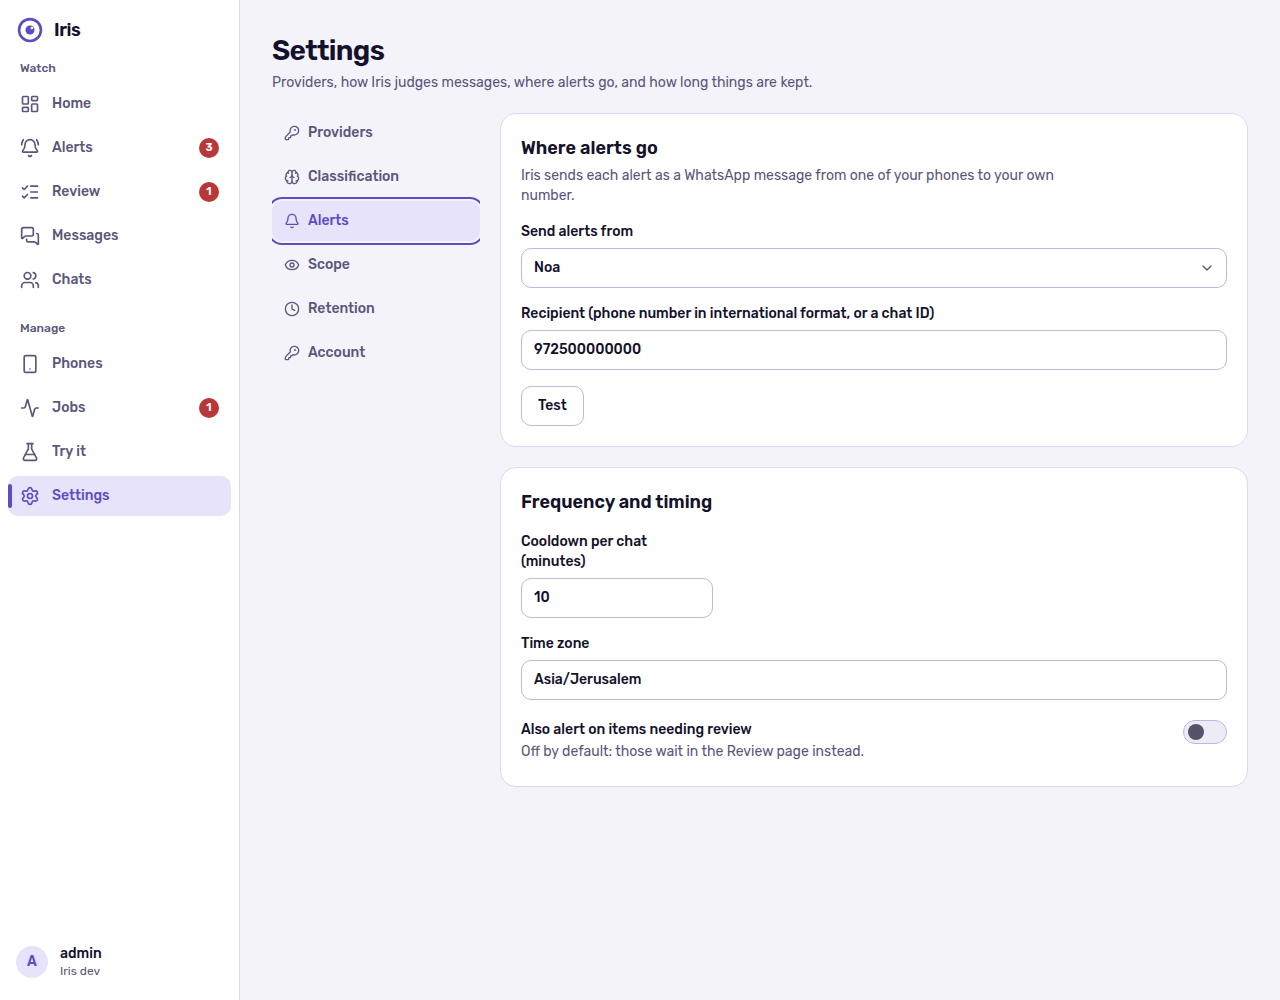
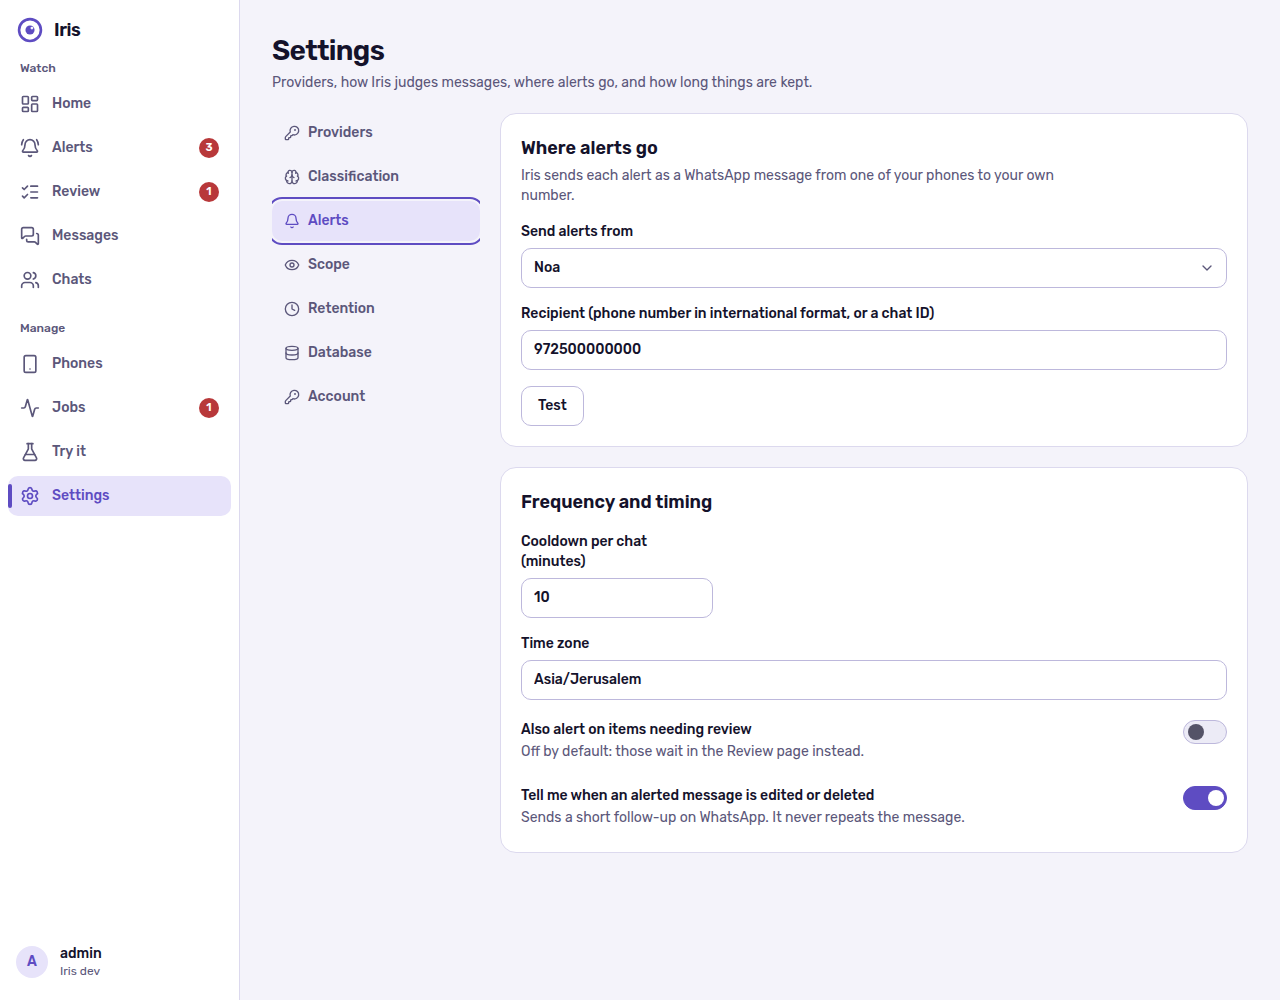
docs: describe choosing a database, with screenshots

Changed region(s): [[0.4062, 0.775, 0.75, 0.837], [0.2188, 0.341, 0.2812, 0.403], [0.9062, 0.775, 0.9688, 0.806]]

diff --git a/README.md b/README.md
@@ -49,7 +49,9 @@ container (amd64 and arm64), and uses free or low-cost models wherever possible.
   an alert you already received is edited or deleted.
 - **Try it page.** Type a message, see how Iris scores and classifies it, and adjust the thresholds with an
   instant preview before saving them.
-- **Searchable archive** (SQLite FTS5, Hebrew and English) with filters, a chat-style context view and
+- **SQLite, PostgreSQL or MySQL.** SQLite is the default and needs nothing; pick a database server under
+  **Settings > Database** and copy your data across with one button.
+- **Searchable archive** (Hebrew and English; SQLite full-text, or substring search on PostgreSQL and MySQL) with filters, a chat-style context view and
   match highlighting.
 - **A modern, responsive portal.** A sidebar on desktop, an icon rail on tablets, and a bottom tab bar on
   phones, so an alert link opens into something you can use one-handed. Light and dark themes follow your
@@ -74,14 +76,14 @@ flowchart LR
         T --> C
         C --> A["Alert service<br/>cooldown, redaction"]
         A -- "send-text" --> OW
-        UI["Portal + REST API"] --- DB[("SQLite + FTS5")]
+        UI["Portal + REST API"] --- DB[("SQLite, PostgreSQL<br/>or MySQL")]
     end
     A -. "WhatsApp message" .-> P(("Parent"))
 ```
 
 The webhook handler never calls an external API: it validates, stores, queues and answers `200`. All slow
 work (downloading media, transcribing, moderating, alerting) happens in worker tasks inside the same process.
-Iris runs as **one process on purpose**: the queue and SQLite assume it.
+Iris runs as **one process on purpose**: the queue and its locks assume it.
 
 ## Requirements
 
@@ -176,13 +178,46 @@ have. Use the switch to pause watching a phone without removing it.
 | `IRIS_PUBLIC_BASE_URL` | yes | | Externally reachable base URL, used to build webhook URLs and alert links. |
 | `IRIS_ADMIN_USERNAME` | first run | | Initial admin user. |
 | `IRIS_ADMIN_PASSWORD` | first run | | Initial admin password (stored hashed with argon2; ignored afterwards). |
-| `IRIS_DATA_DIR` | no | `/data` | SQLite database and temporary media. |
+| `IRIS_DATA_DIR` | no | `/data` | SQLite database (unless another database is chosen), the saved database choice and temporary media. |
+| `IRIS_DATABASE_URL` | no | | `postgresql://user:password@host:5432/db` or `mysql://user:password@host:3306/db` (or `sqlite:///path`). Overrides the choice made in Settings, which then becomes read only. Add `?ssl=true` for TLS. |
 | `IRIS_PORT` | no | `8080` | Listening port. |
 | `IRIS_WORKERS` | no | `3` | Concurrent job workers. |
 | `IRIS_LOG_LEVEL` | no | `INFO` | `DEBUG`, `INFO`, `WARNING`, `ERROR`. |
 | `IRIS_LOG_JSON` | no | `false` | JSON log lines. |
 | `IRIS_METRICS_TOKEN` | no | unset | If set, `/metrics` requires `Authorization: Bearer <token>`. |
 | `IRIS_FORWARDED_ALLOW_IPS` | no | `127.0.0.1` | Your reverse proxy's IP, so the login rate limit sees real client addresses. |
+
+### Choosing a database
+
+By default Iris keeps everything in one **SQLite** file in its data folder. To use a database server instead,
+open **Settings > Database**:
+
+![Database settings](assets/screenshots/database-postgres.png)
+
+1. Create an **empty** database and a user for Iris on your PostgreSQL or MySQL server. On MySQL create the
+   database with the `utf8mb4` character set.
+2. Pick the type, enter the host, port, database name, user and password (turn on **Use TLS** if the server
+   supports it) and press **Test connection**. Iris tells you whether it can reach the server, whether the login
+   works and whether the database is empty.
+3. Press **Save**. The choice is stored in `database.json` in the data folder (the password is encrypted with
+   `IRIS_SECRET_KEY`) and Iris uses it from the **next start**. Restart Iris, for Docker `docker restart iris`.
+4. To keep your history, press **Copy my data to PostgreSQL** (or MySQL) *before* restarting. It copies phones,
+   settings, messages, alerts and the edit history into the empty database, checks the row counts, and leaves the
+   current database untouched, so the old SQLite file is a backup. Messages that arrive while it copies are not
+   included, so copy when it is quiet and restart right after.
+
+**Use SQLite again** forgets the saved choice. If `IRIS_DATABASE_URL` is set the page only shows what is in use,
+because the variable wins.
+
+Notes:
+
+- Only one Iris process may use a database (the job queue and locks live in that process), whichever database it is.
+- Message search on PostgreSQL and MySQL matches any part of a word and ignores case, and works for Hebrew and
+  English; on SQLite it uses the full-text index, which matches the start of words. The results page looks the same.
+- Iris creates its tables itself (migrations run at start). It never creates databases or users.
+- A different `IRIS_SECRET_KEY` cannot read the saved database password or the encrypted settings.
+
+![Database settings in dark mode](assets/screenshots/database-postgres-dark.png)
 
 ### Settings (in the portal)
 
@@ -381,6 +416,9 @@ except `/api/auth/login`, `/api/health` and `/api/version`. Interactive OpenAPI 
 | GET | `/api/settings/thresholds` | Effective per-category thresholds next to their defaults (read-only) |
 | POST | `/api/settings/test/{openai\|cloudflare\|alert}` | Test a provider with the values entered |
 | POST | `/api/classify/test` | Score typed `text` (max 4000 chars) with optional earlier `context` lines (max 20); nothing is stored; 30 per 5 minutes |
+| GET, PUT, DELETE | `/api/database` | Which database runs and which is saved for the next start (never the password); save a choice (409 when `IRIS_DATABASE_URL` is set); go back to SQLite |
+| POST | `/api/database/test` | Try a connection with the values entered (10 per 5 minutes) |
+| GET, POST | `/api/database/copy` | Progress of, and start, the copy of your data into the saved database |
 | GET | `/api/jobs` | Failed and dead jobs with their errors |
 | POST | `/api/jobs/{id}/retry` | Retry a failed or dead job |
 | POST | `/webhooks/{token}` | OpenWA delivers here (authenticated by the token, and by an HMAC signature once Iris registered the webhook) |
@@ -425,6 +463,14 @@ outside, so set `IRIS_METRICS_TOKEN` or restrict `/metrics` in your reverse prox
   `https://`.
 
 ## Troubleshooting
+
+**Test connection says "Could not reach the server".** Check the host and port from where Iris runs (in Docker,
+`localhost` is the container itself: use the server's address or its compose service name) and any firewall.
+"The user name or password was refused" and "That database does not exist" mean the server answered but the
+login or the database name is wrong. Iris never shows the password in these messages.
+
+**I changed the database but Iris still shows the old one.** The choice applies at the next start: restart Iris.
+If **Settings > Database** is read only, `IRIS_DATABASE_URL` is set and wins.
 
 **Messages show `failed` with "OpenWA has no stored media…".** OpenWA could not download the media of a
 message the session *received*. This is a known bug in OpenWA before 0.24.0
